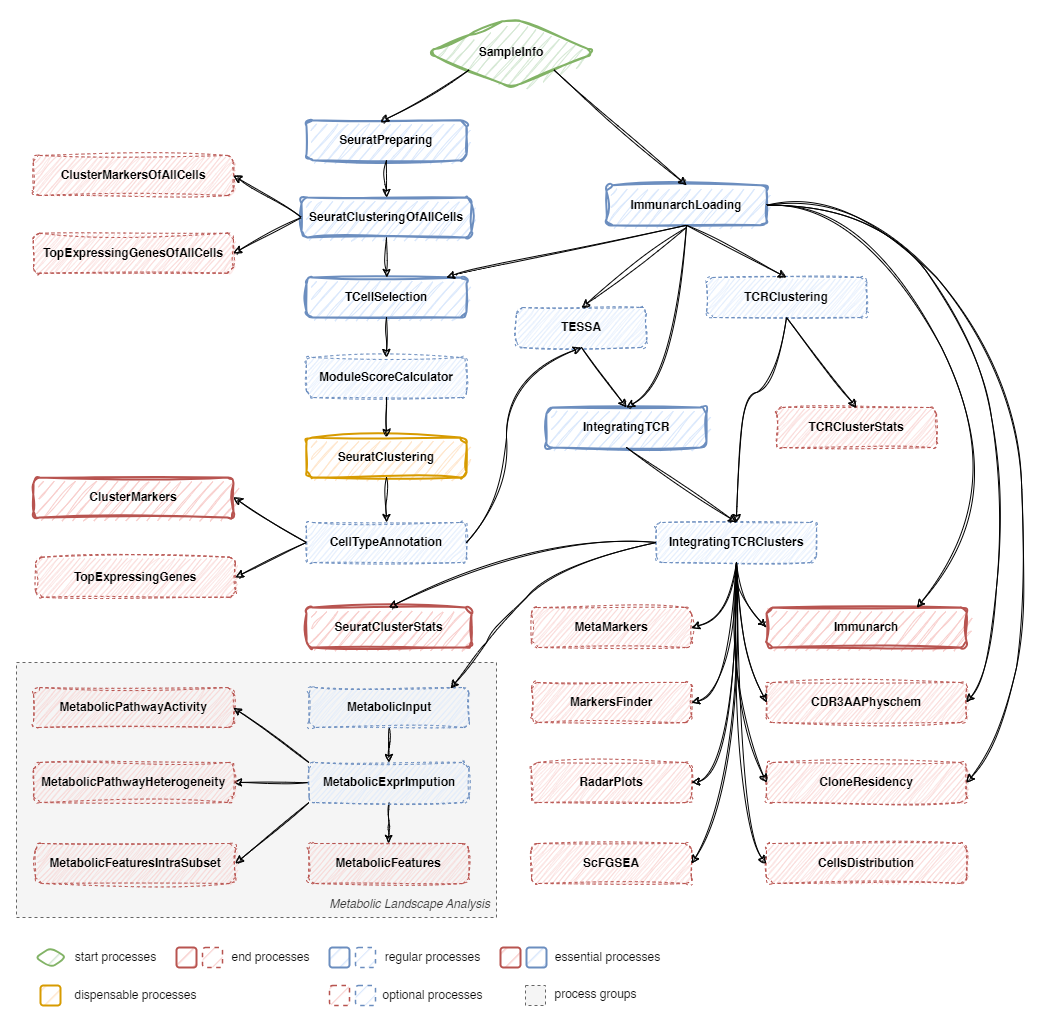
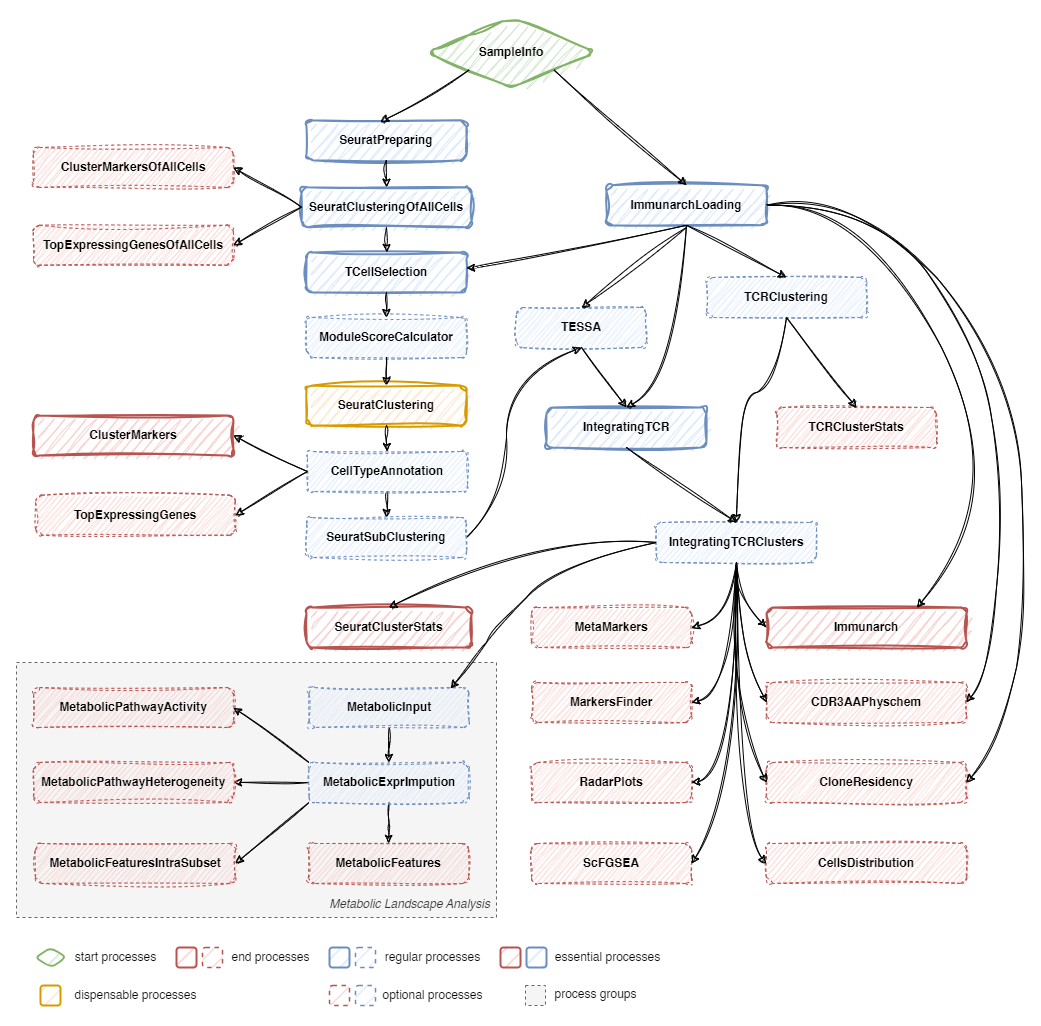
feat: add `SeuratSubClustering`

diff --git a/immunopipe/processes.py b/immunopipe/processes.py
@@ -19,6 +19,7 @@ from biopipen.ns.tcr import (
 from biopipen.ns.scrna import (
     SeuratPreparing as SeuratPreparing_,
     SeuratClustering as SeuratClustering_,
+    SeuratSubClustering as SeuratSubClustering_,
     SeuratMap2Ref as SeuratMap2Ref_,
     SeuratClusterStats as SeuratClusterStats_,
     SeuratMetadataMutater as SeuratMetadataMutater_,
@@ -391,6 +392,19 @@ if just_loading or ("SeuratMap2Ref" not in config and "CellTypeAnnotation" in co
         envs = {"tool": "direct", "sctype_db": None}
 
     Clustered = CellTypeAnnotation
+    # >>> Clustered
+
+if just_loading or "SeuratSubClustering" in config:
+    @annotate.format_doc(indent=2, vars={"baseurl": DOC_BASEURL})
+    class SeuratSubClustering(SeuratSubClustering_):
+        """Sub-cluster the selected T cells.
+
+        {{*Summary}}
+        """
+        requires = Clustered
+        input_data = lambda ch1: ch1.iloc[:, [0]]
+
+    Clustered = SeuratSubClustering
     # >>> Clustered
 
 
@@ -816,7 +830,6 @@ if just_loading or "MarkersFinder" in config:
             in the report.
         """
         requires = Clustered
-        envs = {"assay": "RNA"}
         order = 5
 
 if just_loading or "MetaMarkers" in config:

diff --git a/docs/processes/SeuratSubClustering.md b/docs/processes/SeuratSubClustering.md
@@ -1,0 +1,70 @@
+# SeuratSubClustering
+
+Sub-cluster the selected T cells.
+
+Find clusters of a subset of cells.<br />
+
+It's unlike [`Seurat::FindSubCluster`], which only finds subclusters of a single
+cluster. Instead, it will perform the whole clustering procedure on the subset of
+cells. One can use metadata to specify the subset of cells to perform clustering on.<br />
+
+For the subset of cells, the reductions will be re-performed on the subset of cells,
+and then the clustering will be performed on the subset of cells. The reduction
+will be saved in `sobj@reduction$sub_umap_<casename>` of the original object and the
+clustering will be saved in the metadata of the original object using the casename     as the column name.<br />
+
+## Environment Variables
+
+- `mutaters` *(`type=json`)*: *Default: `{}`*. <br />
+    The mutaters to mutate the metadata to subset the cells.<br />
+    The mutaters will be applied in the order specified.<br />
+- `subset`:
+    An expression to subset the cells, will be passed to
+    [`tidyseurat::filter()`](https://stemangiola.github.io/tidyseurat/reference/filter.html).<br />
+
+- `RunUMAP` *(`ns`)*:
+    Arguments for [`RunUMAP()`](https://satijalab.org/seurat/reference/runumap).<br />
+    `object` is specified internally as the subset object, and `-` in the key will be replaced with `.`.<br />
+    `dims=N` will be expanded to `dims=1:N`; The maximal value of `N` will be the minimum of `N` and the number of columns - 1 for each sample.<br />
+    - `dims` *(`type=int`)*: *Default: `30`*. <br />
+        The number of PCs to use
+    - `reduction`:
+        The reduction to use for UMAP.<br />
+        If not provided, `sobj@misc$integrated_new_reduction` will be used.<br />
+    - `<more>`:
+        See <https://satijalab.org/seurat/reference/runumap>
+- `FindNeighbors` *(`ns`)*:
+    Arguments for [`FindNeighbors()`](https://satijalab.org/seurat/reference/findneighbors).<br />
+    `object` is specified internally, and `-` in the key will be replaced with `.`.<br />
+    - `reduction`:
+        The reduction to use.<br />
+        If not provided, `sobj@misc$integrated_new_reduction` will be used.<br />
+    - `<more>`:
+        See <https://satijalab.org/seurat/reference/findneighbors>
+- `FindClusters` *(`ns`)*:
+    Arguments for [`FindClusters()`](https://satijalab.org/seurat/reference/findclusters).<br />
+    `object` is specified internally, and `-` in the key will be replaced with `.`.<br />
+    - `resolution`: *Default: `0.8`*. <br />
+        The resolution of the clustering. You can have multiple resolutions separated by comma.<br />
+        The results will be saved in `<casename>_<resolution>`.<br />
+        The final resolution will be used to define the clusters at `<casename>`.<br />
+    - `<more>`:
+        See <https://satijalab.org/seurat/reference/findclusters>
+- `cache` *(`type=auto`)*: *Default: `True`*. <br />
+    Whether to cache the seurat object with cluster information.<br />
+    If `True`, the seurat object will be cached in the job output directory, which will be not cleaned up when job is rerunning.<br />
+    The cached seurat object will be saved as `<signature>.cached.RDS` file, where `<signature>` is the signature determined by
+    the input and envs of the process.<br />
+    See -
+    * <https://github.com/satijalab/seurat/issues/7849>
+    * <https://github.com/satijalab/seurat/issues/5358> and
+    * <https://github.com/satijalab/seurat/issues/6748> for more details.<br />
+    To not use the cached seurat object, you can either set `cache` to `False` or delete the cached file at
+    `<signature>.cached.RDS` in the cache directory.<br />
+    If `True`, the cache directory is `.pipen/<Pipeline>/SeuratClustering/0/output/`
+    You can also specify customized directory to save the cached seurat object by setting `cache` to the directory path.<br />
+- `cases` *(`type=json`)*: *Default: `{'subcluster': Diot({})}`*. <br />
+    The cases to perform subclustering.<br />
+    Keys are the names of the cases and values are the dicts inherited from `envs` except `mutaters` and `cache`.<br />
+    If empty, a case with name `subcluster` will be created with default parameters.<br />
+

diff --git a/docs/introduction.md b/docs/introduction.md
@@ -42,6 +42,7 @@ As shown in the figure above, `immunopipe` includes a set of processes for scTCR
 - [`SeuratClustering`](processes/SeuratClustering.md): Perform clustering on all or T cells selected above.
 - [`SeuratMap2Ref`](processes/SeuratMap2Ref.md): Map the cells to a reference dataset.
 - [`CellTypeAnnotation`](processes/CellTypeAnnotation.md): Annotate cell types for each T-cell cluster.
+- [`SeuratSubClustering`](processes/SeuratSubClustering.md): Perform sub-clustering on subsets of cells.
 - [`ClusterMarkers`](processes/ClusterMarkers.md): Find markers for each T-cell cluster and perform enrichment analysis.
 - [`TopExpressingGenes`](processes/TopExpressingGenes.md): Find top expressing genes for each T-cell cluster and perform enrichment analysis.
 - [`ModuleScoreCalculator`](processes/ModuleScoreCalculator.md): Calculate module scores or cell cycle scores for each cell.
